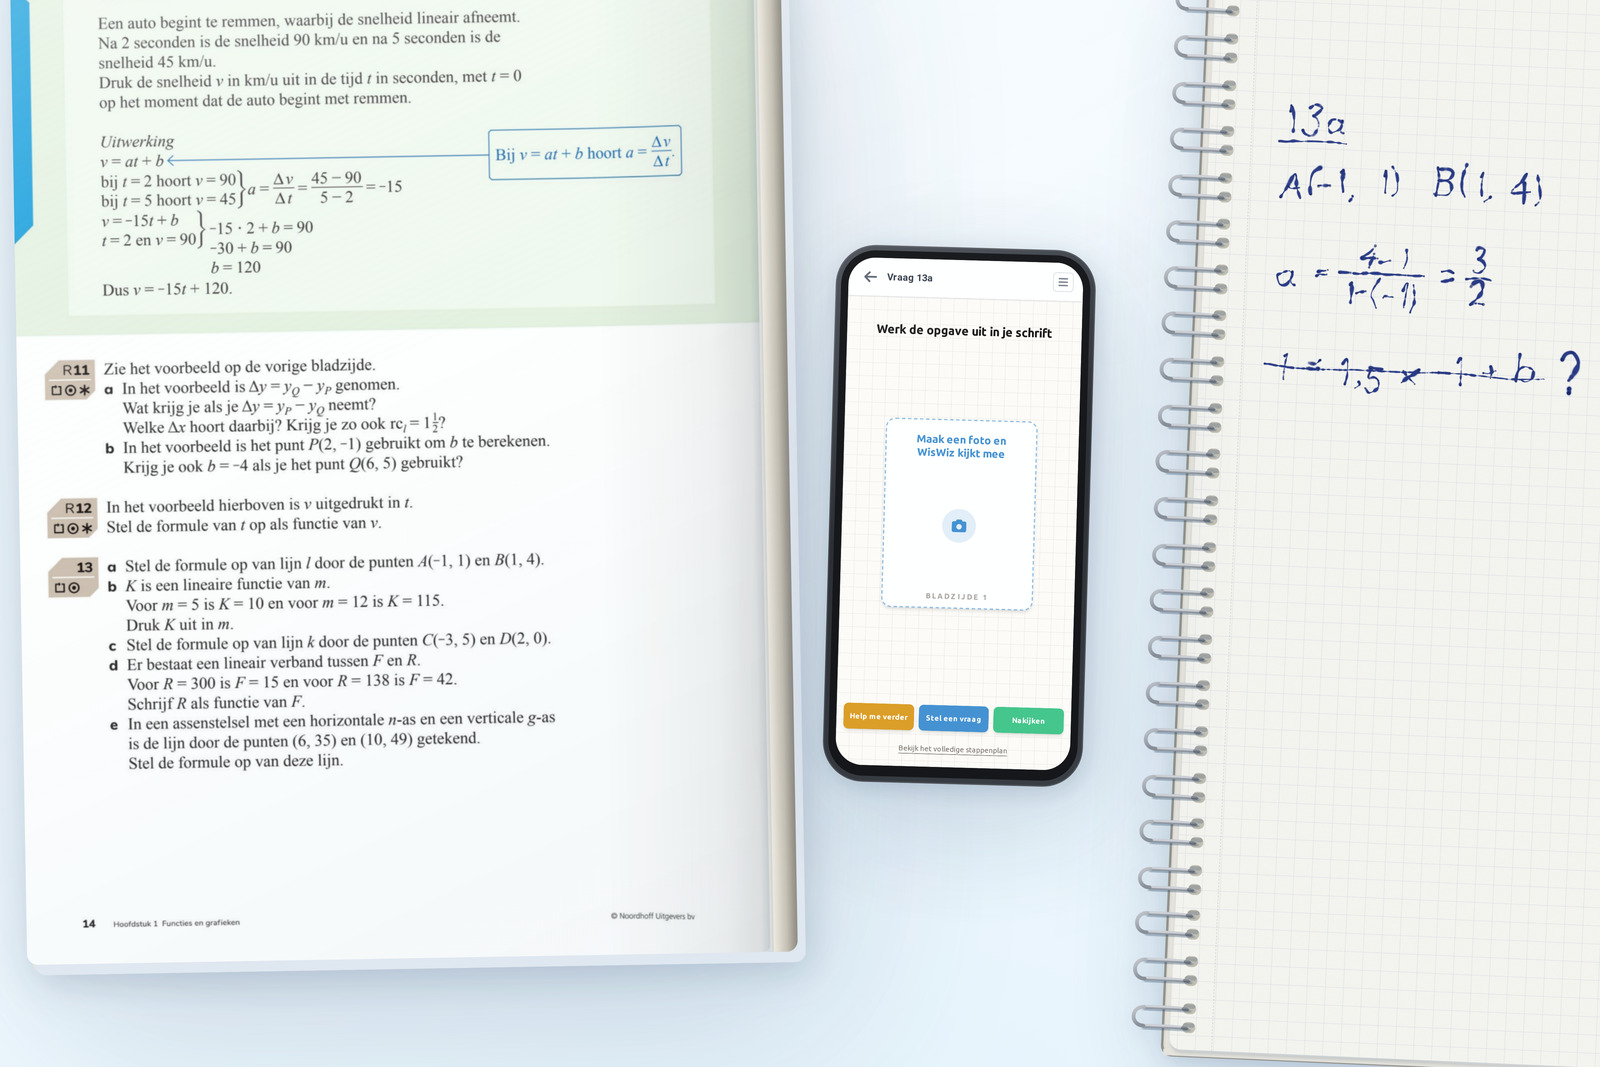
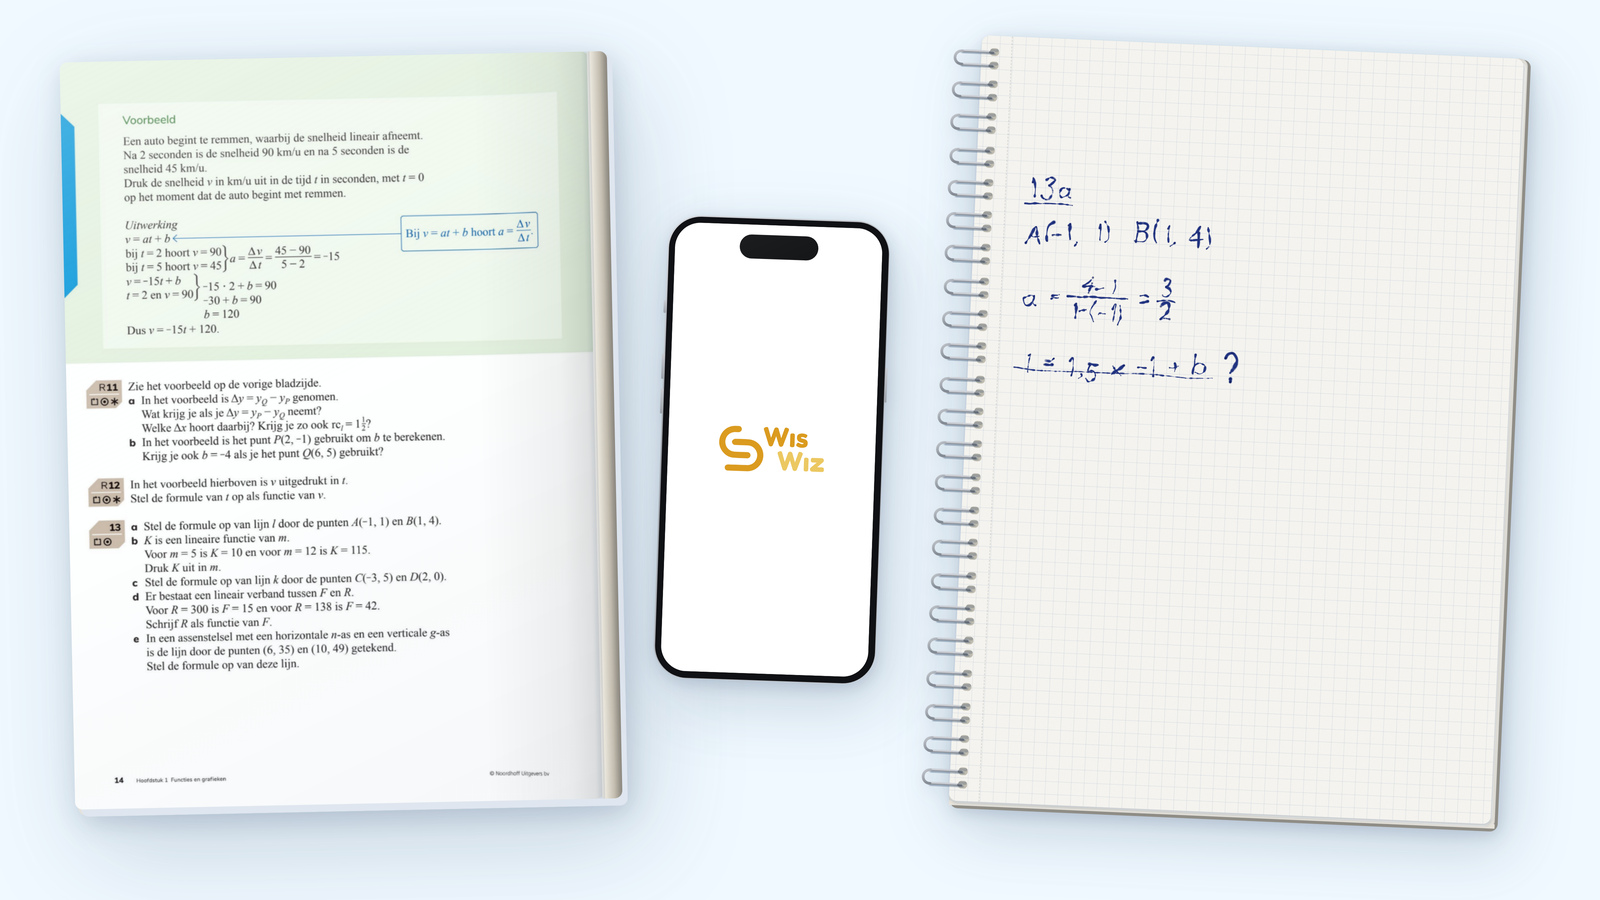
hero: ronde-3 beeld R3 (alles heel, naadloos, iPhone-splash)

Changed region(s): [[0.0, 0.0, 1.0, 1.0]]

diff --git a/index.html b/index.html
@@ -166,7 +166,7 @@
   <main>
     <section class="hero">
       <div class="hero-visual">
-        <img src="assets/hero.jpg" alt="Een wiskundeboek, een telefoon met WisWiz en een schrift met een vastgelopen uitwerking" width="1600" height="1067" />
+        <img src="assets/hero.jpg" alt="Een wiskundeboek, een telefoon met WisWiz en een schrift met een vastgelopen uitwerking" width="1600" height="900" />
       </div>
       <div class="hero-copy">
         <h1>
